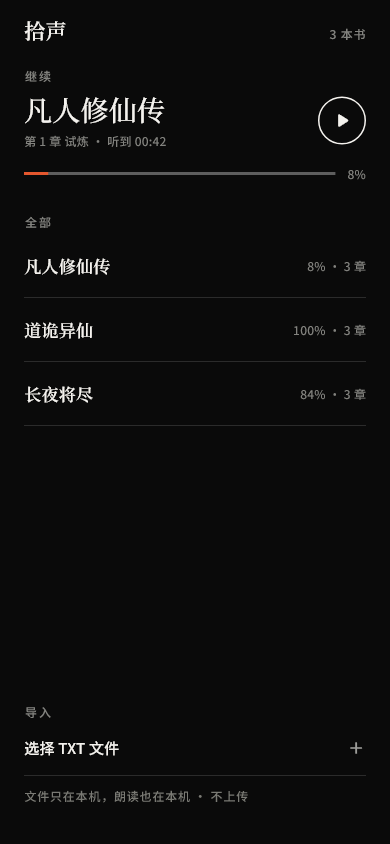
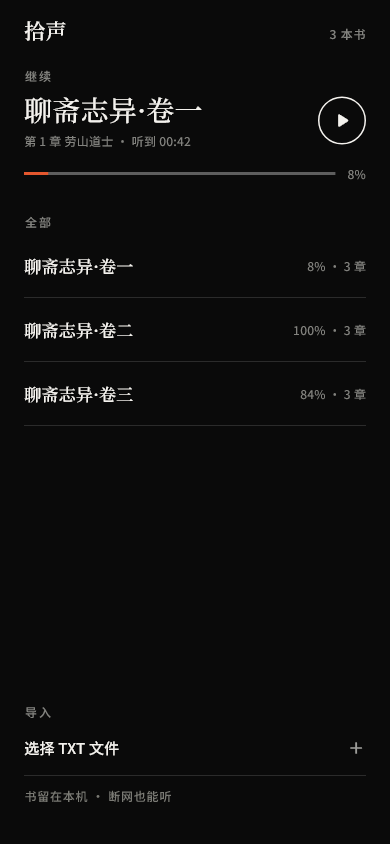
截图与示例统一换成公版《聊斋志异》
README 的五张截图还是重设计前的旧图（书架/目录上写的是有版权的
《凡人修仙传》），goldens 已换过但没同步到 docs/。
- docs/screenshots/* 全部从当前 goldens 重出
- 目录页 fixture 每章铺到 30 段，页头「3 章 · 33 秒」变成「27 分 13 秒」
- 已生成比例跟三行状态对齐（1/3 → 33%，不再写着 100% 却有「优先合成」）
- DESIGN.md 与 tool/e2e_test.dart 里的样例文本换成聊斋

diff --git a/app/test/design_preview_test.dart b/app/test/design_preview_test.dart
@@ -41,29 +41,33 @@ BookIR _ir(String title, int chapters) {
         title: '第 ${i + 1} 章 ${tails[i % tails.length]}',
         file: '',
         line: 0,
+        // 每章按 30 段重复铺开：截图里的「3 章 · X 分」要像一本真书，
+        // 只用三句话的话页头会显示「3 章 · 33 秒」，看着像坏了。
         segments: <Segment>[
-          Segment(
-            seq: i * 3,
-            text: '邑有王生，行七，故家子。少慕道，闻劳山多仙人，负笈往游。',
-            type: 'narration',
-            para: 0,
-            chapterSeq: i,
-          ),
-          Segment(
-            seq: i * 3 + 1,
-            text: '“弟子操作多日，师略授小技。”',
-            type: 'dialogue',
-            speaker: '王生',
-            para: 1,
-            chapterSeq: i,
-          ),
-          Segment(
-            seq: i * 3 + 2,
-            text: '过月余，手足重茧，不堪其苦，阴有归志。',
-            type: 'narration',
-            para: 2,
-            chapterSeq: i,
-          ),
+          for (var r = 0; r < 30; r++) ...<Segment>[
+            Segment(
+              seq: (i * 30 + r) * 3,
+              text: '邑有王生，行七，故家子。少慕道，闻劳山多仙人，负笈往游。登一顶，有观宇甚幽。一道士坐蒲团上，素发垂领，而神光爽迈。',
+              type: 'narration',
+              para: r * 3,
+              chapterSeq: i,
+            ),
+            Segment(
+              seq: (i * 30 + r) * 3 + 1,
+              text: '“弟子操作多日，师略授小技，此来为不负也。”',
+              type: 'dialogue',
+              speaker: '王生',
+              para: r * 3 + 1,
+              chapterSeq: i,
+            ),
+            Segment(
+              seq: (i * 30 + r) * 3 + 2,
+              text: '过月余，手足重茧，不堪其苦，阴有归志。',
+              type: 'narration',
+              para: r * 3 + 2,
+              chapterSeq: i,
+            ),
+          ],
         ],
       ),
     );
@@ -131,7 +135,9 @@ void main() {
 
   final b1 = () {
     final ir = _ir('聊斋志异·卷一', 3);
-    return BookItem('preview-1', ir, 3, 540000, lastSeq: 0, lastPosMs: 42000);
+    // 只有第 1 章整章合成过：页头「已生成」要跟下面三行的状态一致，
+    // 不能写着 100% 而两章还在「优先合成」。
+    return BookItem('preview-1', ir, 1, 492000, lastSeq: 0, lastPosMs: 42000);
   }();
   final b2 = () {
     final ir = _ir('聊斋志异·卷二', 3);

diff --git a/app/tool/e2e_test.dart b/app/tool/e2e_test.dart
@@ -15,7 +15,7 @@ Future<void> main(List<String> args) async {
   final t0 = DateTime.now();
   await eng.start();
   print('engine start: ${DateTime.now().difference(t0).inMilliseconds}ms');
-  const text = '韩立盘膝而坐，缓缓睁开双眼。一名青衫少女笑道：师弟，你终于醒了。';
+  const text = '邑有王生，行七，故家子。少慕道，闻劳山多仙人。道士曰：“恐娇情不能作苦。”';
   final r = await eng.synth(text, 102, outPath: out);
   if (!r.ok) {
     print('SYNTH FAIL: ${r.error}');

diff --git a/app/DESIGN.md b/app/DESIGN.md
@@ -185,7 +185,7 @@
   对白以 `“` / `「` 起头且上一句以 `。！？”」` 收尾时也单独成段。
 - 当前段会自动滚到视口 34% 高度处（`Scrollable.ensureVisible`，200ms）；段落不满一屏时整体垂直居中，不留死白。
 - 书架**不生成封面**。导入的 TXT 没有封面，画一个就是编；书靠名字和进度被认出来。
-- 目录页**不做整体垂直居中**。居中会让「凡人修仙传」在三章的书里停在 y233、在八章的书里停在 y97——
+- 目录页**不做整体垂直居中**。居中会让「聊斋志异·卷一」在三章的书里停在 y233、在八章的书里停在 y97——
   同一个书名在同一个页面里不该有两个高度。三章的书下面空着，那是因为它真的只有三章，不是排版没写完。
   超过 40 章走 `SliverList` 按需构建（长列表不该一次性全部建出来）。
 - 书库的「导入」块钉在栏底（`SliverFillRemaining(hasScrollBody: false)`）：书只有三本时压住屏幕下缘，
